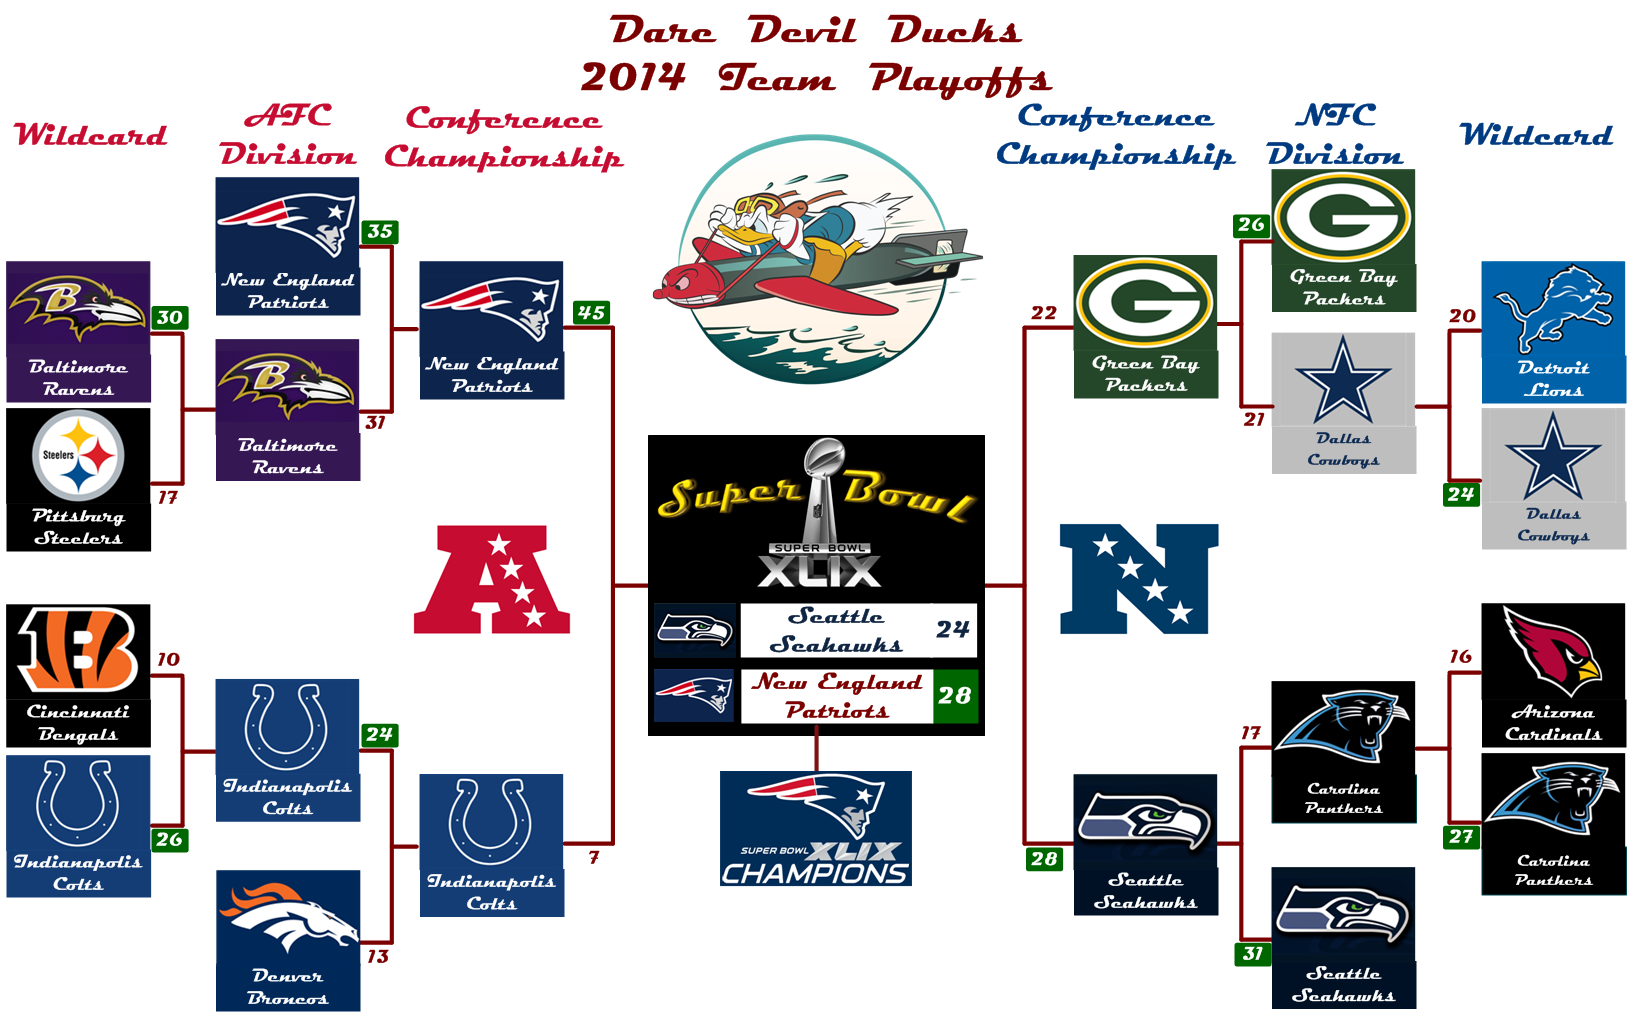
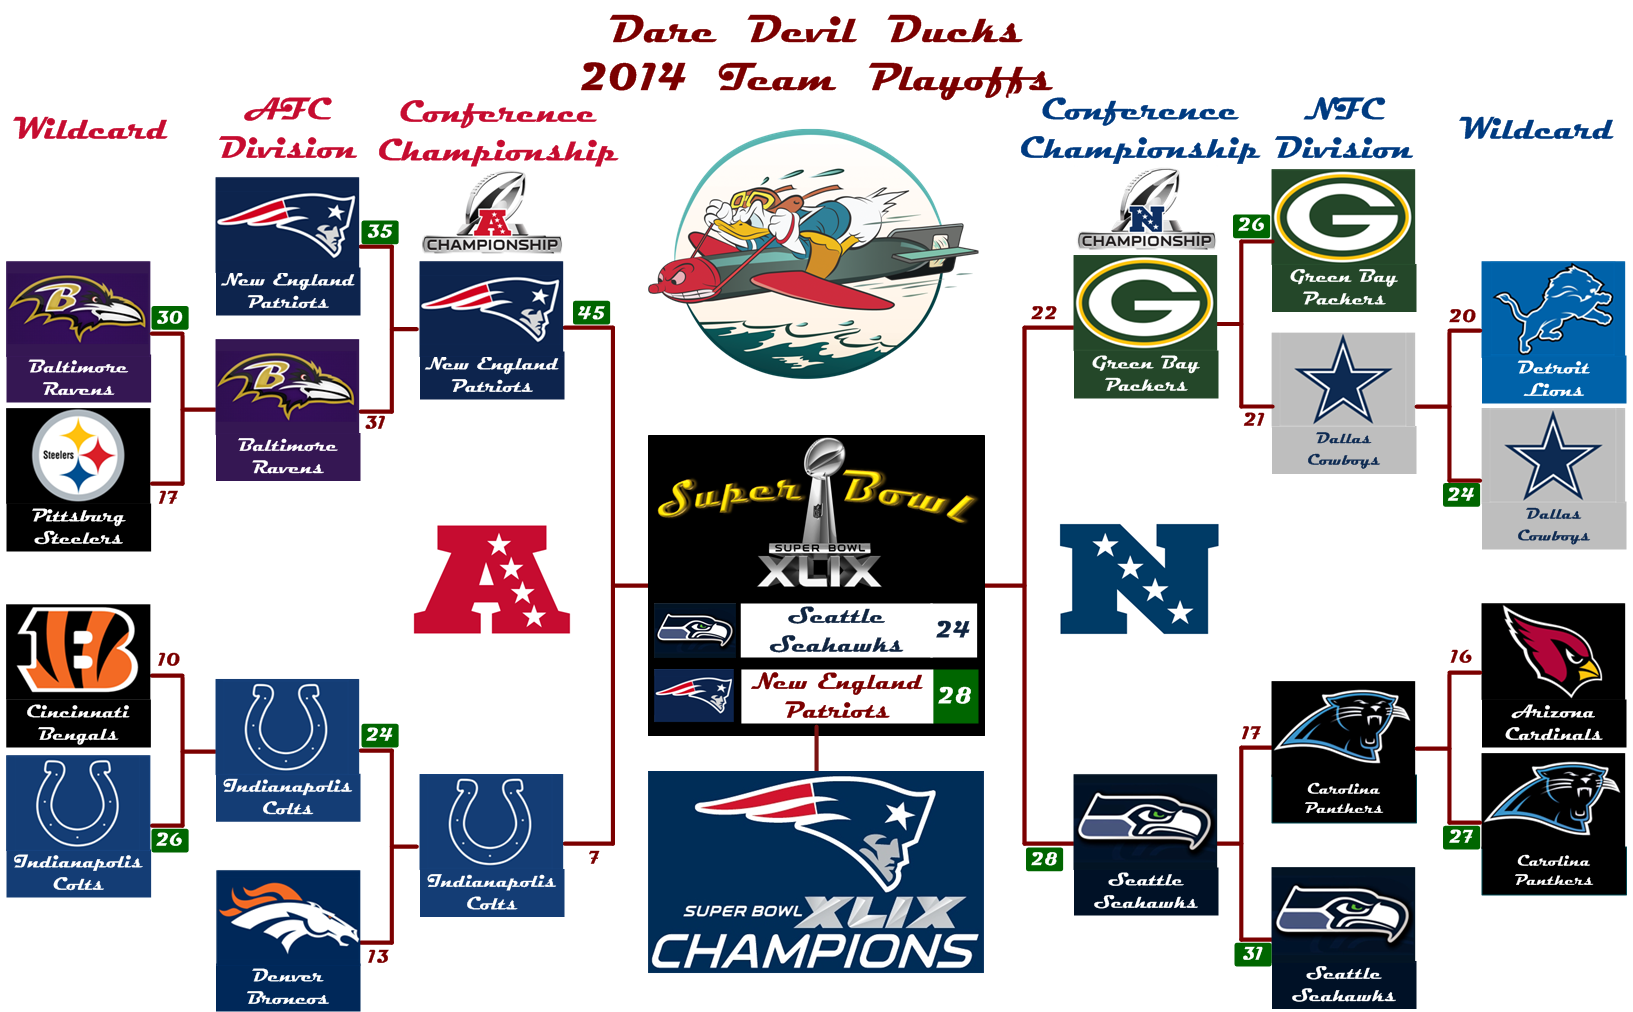
quick fix for 2015 season end not reflected well in getcurrent seasonweek. Also added bracket images. Need to refine getcurrentseasonweek

diff --git a/app/controllers/controllers.js b/app/controllers/controllers.js
@@ -149,6 +149,8 @@ controllers.loginController = function ($scope, $http, $location, loginService, 
 
         loginFactory.loginPassword(data)
             .success( function(login) {
+                var ua = getUserAgent();
+                
                 if (login.rc == "1")
                 {
                     loginService.addLogin(login);
@@ -159,8 +161,6 @@ controllers.loginController = function ($scope, $http, $location, loginService, 
                     // flip the label
                     var route = loginService.setLoginLogoffLabel("menubarlogin",0);
                     loginService.setAvatarLabel("menubaravatar",0);
-
-                    var ua = getUserAgent();
 
                     if (ua.deviceType == "Mobile")
                     {
@@ -1005,8 +1005,7 @@ controllers.nflnewsController = function ($scope, $sce, $http, $location, nflTea
 
 controllers.playoffstandingsController = function ($scope, $http, $location, nflTeamsService, nflteamsFactory) {
     $scope.current = {};
-    $scope.current.season = nflTeamsService.getCurrentSeason();
-
+ 
     function selectChange()
     {
         setBracketImage();
@@ -1017,11 +1016,11 @@ controllers.playoffstandingsController = function ($scope, $http, $location, nfl
         switch ($scope.current.season)
         {
             case "2014":
-                $scope.bracketimg = "NFLPlayOffBracket2014D.png";
+                $scope.bracketimg = "NFLPlayOffBracket2014C.png";
                 break;
 
             case "2015":
-                $scope.bracketimg = "NFLPlayOffBracket2015G.png";
+                $scope.bracketimg = "NFLPlayOffBracket2015H.png";
                 break;  
                 
             default:
@@ -1036,6 +1035,8 @@ controllers.playoffstandingsController = function ($scope, $http, $location, nfl
         // in jquery ready. So adding it here
         //
         setviewpadding();
+
+        $scope.current.season = nflTeamsService.getCurrentSeason();
 
         setBracketImage();
         

diff --git a/emailforms/gameweek-email.html b/emailforms/gameweek-email.html
@@ -12,7 +12,10 @@ Hi Folks,
 Week 20 has passed us and the Super Bowl awaits! 
 </p>
 <p>
-The Pats took it about as far as they could. It would have been nice to see Roger have to hand the trophy to Kraft. But in the end the Broncos were the better team on the field that day. The Panthers dominated the Cardinals. I expected a much closer game. But in the end Carolina was just too much. So now we have a final, pitting Denver against Carolina. The talking heads have Carolina dominating; but don't be too sure. Manning really wants this and I belive he has a very good chance of pulling off a victory! 
+The Pats took it about as far as they could. It would have been nice to see Roger have to hand the trophy to Kraft, but in the end the Broncos were the better team on the field that day. The Panthers dominated the Cardinals in a what became an uncompetative match. 
+</p>
+<p>
+So now we have a final, pitting Denver against Carolina. This is what we have all been waiting for. The culmination of 17 regular season weeks with 3 weeks of post season vetting! The speculation, the boasting, the frustrations - have all broght us to another Super Bowel. That quintessential defining contest so many teams strive to be part of! The talking heads have Carolina dominating; but don't be too sure. Manning really wants this and I belive he has a very good chance of pulling off a victory! But Hell, what do I know!
 </p>
 <p>
 Toothfairy, Wildcat Wonder and NFL Amateur continue to reign supreme on the <span style='font-weight:bold; color:maroon;'>Total Games Won Leader</span>. Toothfairy, Scotsman356 and Wildcat Wonder continue to lead on the <span style='font-weight:bold; color:blue;'>Total Percentage Leader</span> Board. 18 Wheeler leads the rest in Post Season picks at 9 wins! Followed by a host of others at 8 wins See <span style='font-weight:bold; color:green;'>Total (Post Season) Games Won Leader</span> page (select Post Season)! The stats are below. Read em and weep (I know I do)!

diff --git a/app/ajax/getcurrentseasonweek.php b/app/ajax/getcurrentseasonweek.php
@@ -64,6 +64,35 @@ if (!$sql_result)
 }
 
 //
+// check to see if anything returned
+// if none then past end of season
+// run special query
+//
+$count = mysql_num_rows($sql_result);
+if ($count < 1)
+{
+	//---------------------------------------------------------------
+	// get nfl week information
+	//---------------------------------------------------------------
+	$sql = "SELECT MAX(season) as season, MAX(week) as week
+	FROM gameweekstbl 
+	WHERE weekstart <= now()";
+
+	$sql_result = @mysql_query($sql, $dbConn);
+	if (!$sql_result)
+	{
+	    $log = new ErrorLog("logs/");
+	    $sqlerr = mysql_error();
+	    $log->writeLog("SQL error: $sqlerr - Error doing select to db Unable to get nfl CURRENT season week 2 information.");
+	    $log->writeLog("SQL: $sql");
+
+	    $status = -100;
+	    $msgtext = "System Error: $sqlerr";
+	}
+
+}
+
+//
 // get season week
 // 
 $count = mysql_num_rows($sql_result);

diff --git a/app/ajax/getnflcurrentseasonweek.php b/app/ajax/getnflcurrentseasonweek.php
@@ -67,6 +67,35 @@ if (!$sql_result)
 }
 
 //
+// check to see if anything returned
+// if none then past end of season
+// run special query
+//
+$count = mysql_num_rows($sql_result);
+if ($count < 1)
+{
+	//---------------------------------------------------------------
+	// get nfl week information
+	//---------------------------------------------------------------
+	$sql = "SELECT MAX(season), MAX(week)
+	FROM gameweekstbl 
+	WHERE weekstart <= now()";
+
+	$sql_result = @mysql_query($sql, $dbConn);
+	if (!$sql_result)
+	{
+	    $log = new ErrorLog("logs/");
+	    $sqlerr = mysql_error();
+	    $log->writeLog("SQL error: $sqlerr - Error doing select to db Unable to get nfl CURRENT season week 2 information.");
+	    $log->writeLog("SQL: $sql");
+
+	    $status = -100;
+	    $msgtext = "System Error: $sqlerr";
+	}
+
+}
+
+//
 // fill the array
 //
 $weeks = array();
